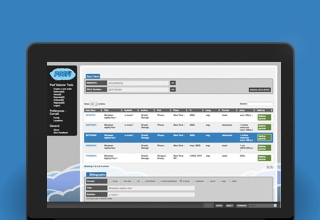
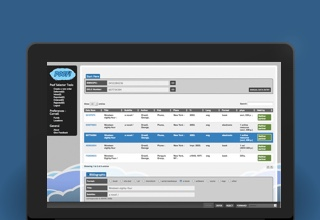
Retina images and animation on front page cards

diff --git a/_site/index.html b/_site/index.html
@@ -138,12 +138,12 @@
                     
                     <div class="projectcard col-md-6" style="background:#50300A">
                         <div class="row">
-                            <a href="/work/analogkit" class="meta col-md-6">
+                            <a href="/work/analogkit" class="meta col-md-6 push-md-6">
                                 <h3>AnalogKit</h3>
                                 <p>UI/UX - Visual Design</p>
                             </a>                      
-                            <a href="/work/analogkit" class="thumbnail col-md-6">
-                                <img src="images/thumbs/analogkit.jpg" />
+                            <a href="/work/analogkit" class="thumbnail col-md-6 pull-md-6">
+                                <img src="images/thumbs/analogkit@2x.jpg" />
                             </a>    
                         </div>
                     </div>
@@ -152,12 +152,12 @@
                     
                     <div class="projectcard col-md-6" style="background:#272B2F">
                         <div class="row">
-                            <a href="/work/cleartune" class="meta col-md-6">
+                            <a href="/work/cleartune" class="meta col-md-6 push-md-6">
                                 <h3>Cleartune</h3>
                                 <p>Mobile UI/UX design</p>
                             </a>                      
-                            <a href="/work/cleartune" class="thumbnail col-md-6">
-                                <img src="images/thumbs/cleartune.jpg" />
+                            <a href="/work/cleartune" class="thumbnail col-md-6 pull-md-6">
+                                <img src="images/thumbs/cleartune@2x.jpg" />
                             </a>    
                         </div>
                     </div>
@@ -166,26 +166,26 @@
                     
                     <div class="projectcard col-md-6" style="background:#2E3736">
                         <div class="row">
-                            <a href="/work/cleartune" class="meta col-md-6">
+                            <a href="/work/cleartune" class="meta col-md-6 push-md-6">
                                 <h3>Corporate Torsos Need Not Apply</h3>
                                 <p>Mobile UI/UX design</p>
                             </a>                      
-                            <a href="/work/cleartune" class="thumbnail col-md-6">
-                                <img src="images/thumbs/ctnna.jpg" />
+                            <a href="/work/cleartune" class="thumbnail col-md-6 pull-md-6">
+                                <img src="images/thumbs/ctnna@2x.jpg" />
                             </a>    
                         </div>
                     </div>
                     
                 
                     
-                    <div class="projectcard col-md-6" style="background:#EC3B59">
+                    <div class="projectcard col-md-6" style="background:#AA334B">
                         <div class="row">
-                            <a href="/work/cleartune" class="meta col-md-6">
+                            <a href="/work/cleartune" class="meta col-md-6 push-md-6">
                                 <h3>Hydrocarbon Collective</h3>
                                 <p>Mobile UI/UX design</p>
                             </a>                      
-                            <a href="/work/cleartune" class="thumbnail col-md-6">
-                                <img src="images/thumbs/hydrocarbon.jpg" />
+                            <a href="/work/cleartune" class="thumbnail col-md-6 pull-md-6">
+                                <img src="images/thumbs/hydrocarbon@2x.jpg" />
                             </a>    
                         </div>
                     </div>
@@ -194,12 +194,12 @@
                     
                     <div class="projectcard col-md-6" style="background:#477780">
                         <div class="row">
-                            <a href="/work/cleartune" class="meta col-md-6">
+                            <a href="/work/cleartune" class="meta col-md-6 push-md-6">
                                 <h3>FCS Group</h3>
                                 <p>Mobile UI/UX design</p>
                             </a>                      
-                            <a href="/work/cleartune" class="thumbnail col-md-6">
-                                <img src="images/thumbs/fcs.jpg" />
+                            <a href="/work/cleartune" class="thumbnail col-md-6 pull-md-6">
+                                <img src="images/thumbs/fcs@2x.jpg" />
                             </a>    
                         </div>
                     </div>
@@ -208,26 +208,26 @@
                     
                     <div class="projectcard col-md-6" style="background:#4A4A4A">
                         <div class="row">
-                            <a href="/work/cleartune" class="meta col-md-6">
+                            <a href="/work/cleartune" class="meta col-md-6 push-md-6">
                                 <h3>Cornell's Johnson Graduate School Library</h3>
                                 <p>Mobile UI/UX design</p>
                             </a>                      
-                            <a href="/work/cleartune" class="thumbnail col-md-6">
-                                <img src="images/thumbs/jgsm.jpg" />
+                            <a href="/work/cleartune" class="thumbnail col-md-6 pull-md-6">
+                                <img src="images/thumbs/jgsm@2x.jpg" />
                             </a>    
                         </div>
                     </div>
                     
                 
                     
-                    <div class="projectcard col-md-6" style="background:#3680BD">
+                    <div class="projectcard col-md-6" style="background:#315D86">
                         <div class="row">
-                            <a href="/work/cleartune" class="meta col-md-6">
+                            <a href="/work/cleartune" class="meta col-md-6 push-md-6">
                                 <h3>Poof! Webapp</h3>
                                 <p>Mobile UI/UX design</p>
                             </a>                      
-                            <a href="/work/cleartune" class="thumbnail col-md-6">
-                                <img src="images/thumbs/poof.jpg" />
+                            <a href="/work/cleartune" class="thumbnail col-md-6 pull-md-6">
+                                <img src="images/thumbs/poof@2x.jpg" />
                             </a>    
                         </div>
                     </div>
@@ -236,12 +236,12 @@
                     
                     <div class="projectcard col-md-6" style="background:#517334">
                         <div class="row">
-                            <a href="/work/cleartune" class="meta col-md-6">
+                            <a href="/work/cleartune" class="meta col-md-6 push-md-6">
                                 <h3>Other Projects</h3>
                                 <p>Mobile UI/UX design</p>
                             </a>                      
-                            <a href="/work/cleartune" class="thumbnail col-md-6">
-                                <img src="images/thumbs/oldboy.jpg" />
+                            <a href="/work/cleartune" class="thumbnail col-md-6 pull-md-6">
+                                <img src="images/thumbs/oldboy@2x.jpg" />
                             </a>    
                         </div>
                     </div>
@@ -250,12 +250,12 @@
                     
                     <div class="projectcard col-md-6" style="background:#539388">
                         <div class="row">
-                            <a href="/work/cleartune" class="meta col-md-6">
+                            <a href="/work/cleartune" class="meta col-md-6 push-md-6">
                                 <h3>More visual design & Illustration</h3>
                                 <p></p>
                             </a>                      
-                            <a href="/work/cleartune" class="thumbnail col-md-6">
-                                <img src="images/thumbs/visual.jpg" />
+                            <a href="/work/cleartune" class="thumbnail col-md-6 pull-md-6">
+                                <img src="images/thumbs/visual@2x.jpg" />
                             </a>    
                         </div>
                     </div>
@@ -264,12 +264,12 @@
                     
                     <div class="projectcard col-md-6" style="background:#8D9389">
                         <div class="row">
-                            <a href="/work/cleartune" class="meta col-md-6">
+                            <a href="/work/cleartune" class="meta col-md-6 push-md-6">
                                 <h3>More Web design & development</h3>
                                 <p></p>
                             </a>                      
-                            <a href="/work/cleartune" class="thumbnail col-md-6">
-                                <img src="images/thumbs/web.jpg" />
+                            <a href="/work/cleartune" class="thumbnail col-md-6 pull-md-6">
+                                <img src="images/thumbs/web@2x.jpg" />
                             </a>    
                         </div>
                     </div>

diff --git a/_layouts/frontpage.html b/_layouts/frontpage.html
@@ -19,11 +19,11 @@
                     {% if post.categories contains 'work' %}
                     <div class="projectcard col-md-6" style="background:{{post.color}}">
                         <div class="row">
-                            <a href="{{ post.url }}" class="meta col-md-6">
+                            <a href="{{ post.url }}" class="meta col-md-6 push-md-6">
                                 <h3>{{ post.title }}</h3>
                                 <p>{{ post.type }}</p>
                             </a>                      
-                            <a href="{{ post.url }}" class="thumbnail col-md-6">
+                            <a href="{{ post.url }}" class="thumbnail col-md-6 pull-md-6">
                                 <img src="{{ post.thumbnail }}" />
                             </a>    
                         </div>

diff --git a/_site/css/style.css b/_site/css/style.css
@@ -1537,7 +1537,7 @@ h4 {
     height: 220px; }
     .projectcard .thumbnail img {
       position: relative;
-      top: 4px;
+      top: 10px;
       width: 100%;
       max-width: 320px; }
   .projectcard .meta {
@@ -1552,6 +1552,10 @@ h4 {
       font-style: italic;
       font-size: 16px;
       color: #E4D297; }
+  .projectcard:hover .thumbnail img {
+    top: 1px;
+    -webkit-transition: top .4s;
+    transition: top .4s; }
 
 .project .images {
   text-align: center;

diff --git a/css/style.scss b/css/style.scss
@@ -150,7 +150,7 @@ h4 {
         height:220px;
         img {
             position:relative;
-            top:4px;
+            top:10px;
             width:100%;
             max-width:320px;
         }
@@ -167,6 +167,10 @@ h4 {
             font-size:16px;
             color:$tan1;
         }
+    }
+    &:hover .thumbnail img {
+        top:1px;
+        transition: top .4s;
     }
 }
 

diff --git a/_posts/00-00-0003-hydrocarbon.md b/_posts/00-00-0003-hydrocarbon.md
@@ -4,8 +4,8 @@ title: 'Hydrocarbon Collective'
 categories: work
 date: 2015-08-01 13:26:34
 type: 'Mobile UI/UX design'
-thumbnail: 'images/thumbs/hydrocarbon.jpg'
+thumbnail: 'images/thumbs/hydrocarbon@2x.jpg'
 permalink: /work/cleartune
 hero: 'http://placekitten.com/1200/1000' 
-color: '#EC3B59'
+color: '#AA334B'
 ---

diff --git a/_posts/00-00-0005-jgsm.md b/_posts/00-00-0005-jgsm.md
@@ -4,7 +4,7 @@ title: "Cornell's Johnson Graduate School Library"
 categories: work
 date: 2015-08-01 13:26:34
 type: 'Mobile UI/UX design'
-thumbnail: 'images/thumbs/jgsm.jpg'
+thumbnail: 'images/thumbs/jgsm@2x.jpg'
 permalink: /work/cleartune
 hero: 'http://placekitten.com/1200/1000' 
 color: '#4A4A4A'

diff --git a/_posts/00-00-0006-poof.md b/_posts/00-00-0006-poof.md
@@ -4,8 +4,8 @@ title: 'Poof! Webapp'
 categories: work
 date: 2015-08-01 13:26:34
 type: 'Mobile UI/UX design'
-thumbnail: 'images/thumbs/poof.jpg'
+thumbnail: 'images/thumbs/poof@2x.jpg'
 permalink: /work/cleartune
 hero: 'http://placekitten.com/1200/1000' 
-color: '#3680BD'
+color: '#315D86'
 ---

diff --git a/_posts/00-00-0002-ctnna.md b/_posts/00-00-0002-ctnna.md
@@ -4,7 +4,7 @@ title: 'Corporate Torsos Need Not Apply'
 categories: work
 date: 2015-08-01 13:26:34
 type: 'Mobile UI/UX design'
-thumbnail: 'images/thumbs/ctnna.jpg'
+thumbnail: 'images/thumbs/ctnna@2x.jpg'
 permalink: /work/cleartune
 hero: 'http://placekitten.com/1200/1000' 
 color: '#2E3736'

diff --git a/_posts/00-00-0008-visual.md b/_posts/00-00-0008-visual.md
@@ -3,7 +3,7 @@ layout: work
 title: 'More visual design & Illustration'
 categories: work
 date: 2015-08-01 13:26:34
-thumbnail: 'images/thumbs/visual.jpg'
+thumbnail: 'images/thumbs/visual@2x.jpg'
 permalink: /work/cleartune
 hero: 'http://placekitten.com/1200/1000' 
 color: '#539388'

diff --git a/_posts/00-00-0000-analogkit.md b/_posts/00-00-0000-analogkit.md
@@ -4,7 +4,7 @@ title: 'AnalogKit'
 categories: work
 date: 2015-08-01 13:26:34
 type: 'UI/UX - Visual Design'
-thumbnail: 'images/thumbs/analogkit.jpg'
+thumbnail: 'images/thumbs/analogkit@2x.jpg'
 permalink: /work/analogkit
 hero: 'http://placekitten.com/1200/1000' 
 color: '#50300A'

diff --git a/_posts/00-00-0001-cleartune.md b/_posts/00-00-0001-cleartune.md
@@ -4,7 +4,7 @@ title: 'Cleartune'
 categories: work
 date: 2015-08-01 13:26:34
 type: 'Mobile UI/UX design'
-thumbnail: 'images/thumbs/cleartune.jpg'
+thumbnail: 'images/thumbs/cleartune@2x.jpg'
 permalink: /work/cleartune
 hero: 'http://placekitten.com/1200/1000' 
 color: '#272B2F'

diff --git a/_posts/00-00-0007-other.md b/_posts/00-00-0007-other.md
@@ -4,7 +4,7 @@ title: 'Other Projects'
 categories: work
 date: 2015-08-01 13:26:34
 type: 'Mobile UI/UX design'
-thumbnail: 'images/thumbs/oldboy.jpg'
+thumbnail: 'images/thumbs/oldboy@2x.jpg'
 permalink: /work/cleartune
 hero: 'http://placekitten.com/1200/1000' 
 color: '#517334'
